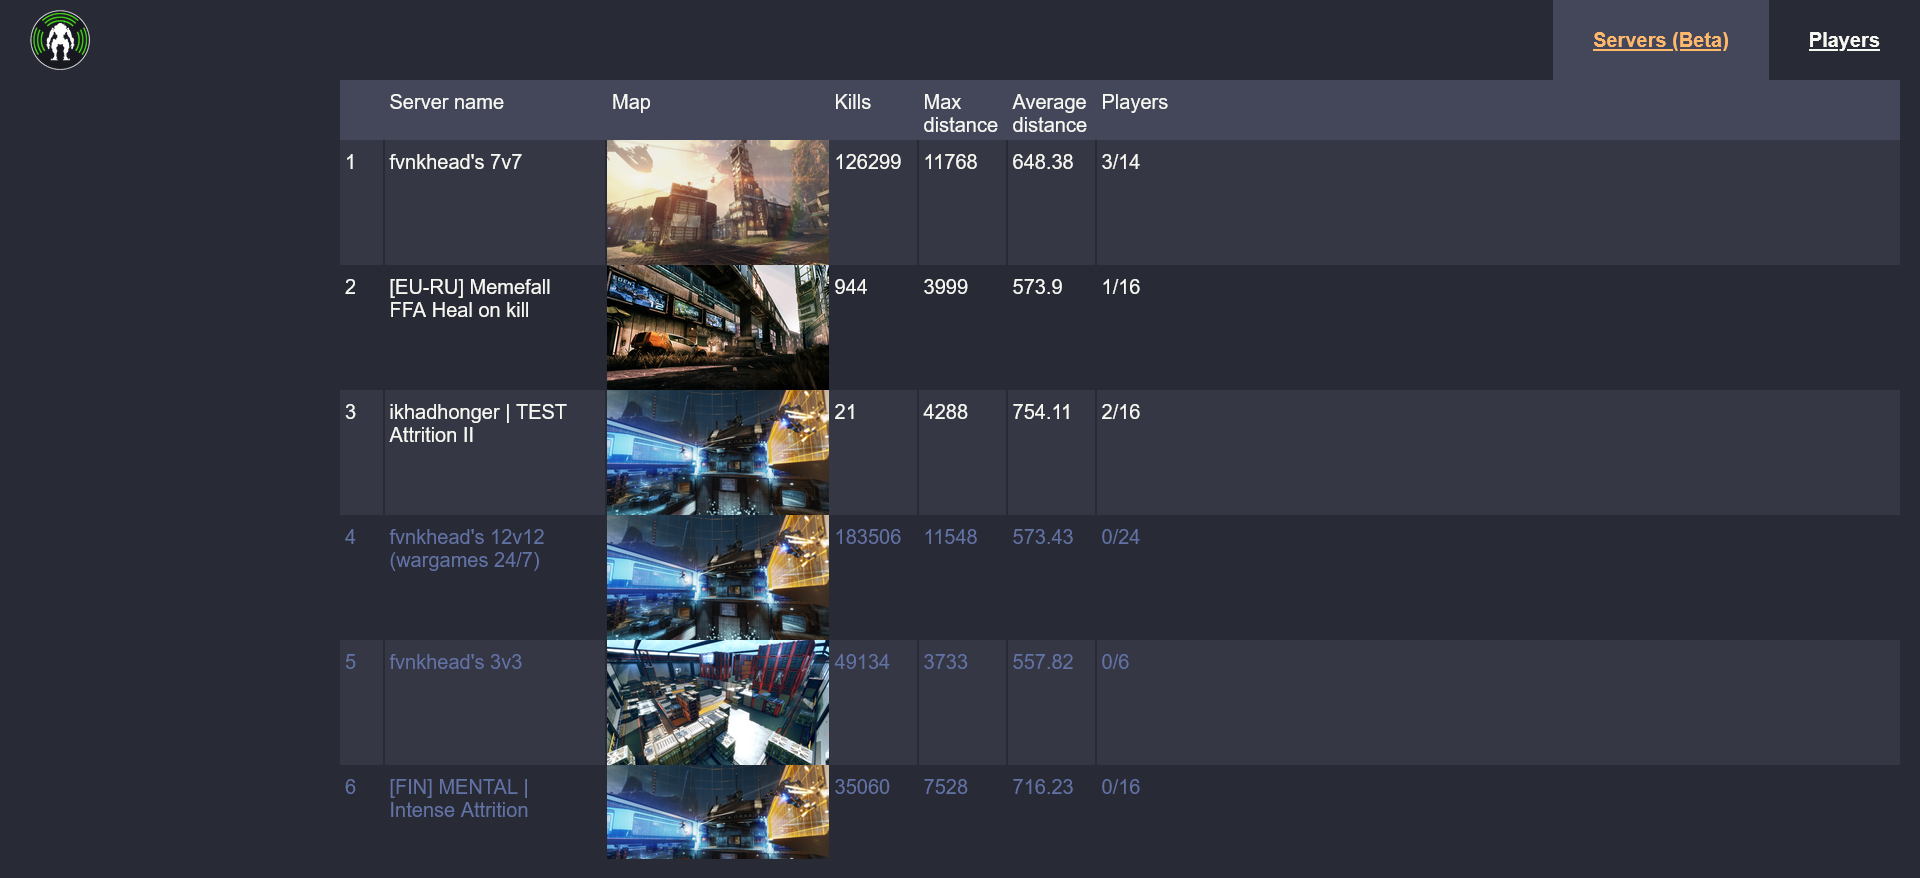
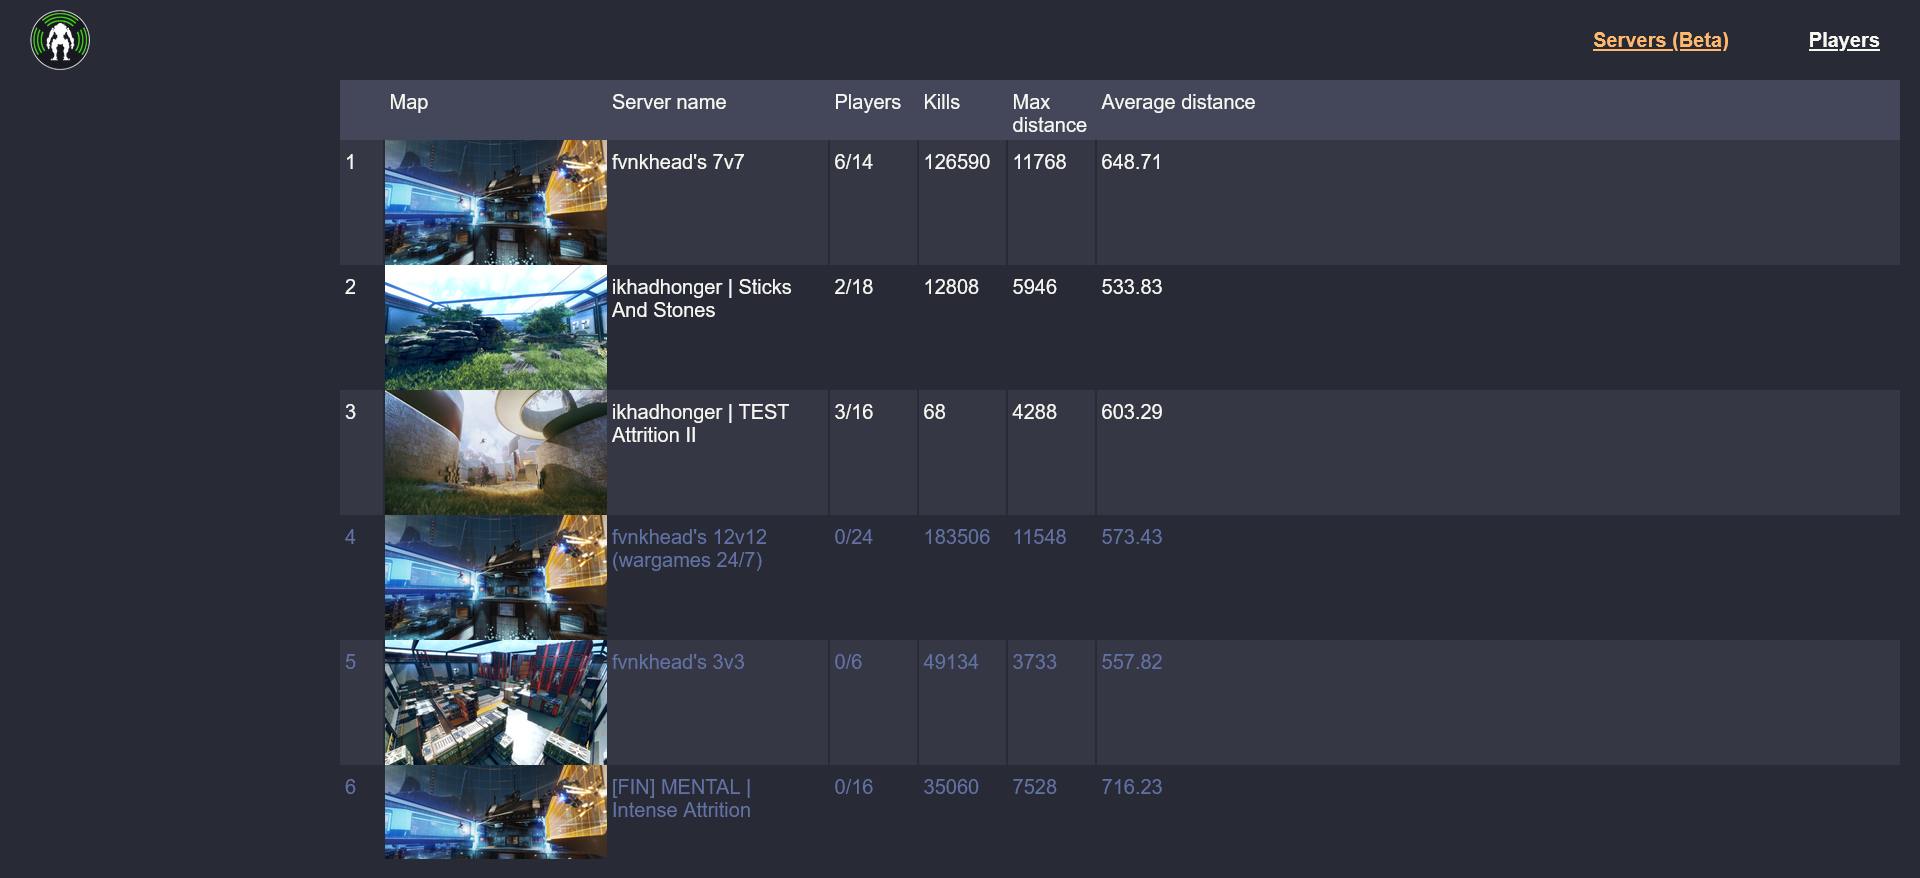
change order of elements in server list

diff --git a/src/views/ServerView.vue b/src/views/ServerView.vue
@@ -6,28 +6,27 @@
     <div class="serverList">
       <div class="serverHeaders">
         <span></span>
-        <span>Server name</span>
         <span>Map</span>
+        <span>Server name</span>
+        <span>Players</span>
         <span>Kills</span>
         <span>Max distance</span>
         <span>Average distance</span>
-        <span>Players</span>
       </div>
       <VirtualList :list="serverList" :row-height="100" v-slot="slotProps">
         <div
           :class="'serverRow ' + (!nsServersByName[slotProps.data.name] ? 'offline ' : '') + (!nsServersByName[slotProps.data.name]?.playerCount ? 'inactive ' : '') + ((slotProps.index + 1) % 2 ? 'odd ' : 'uneven ')">
           <div><span>{{ slotProps.index + 1 }}</span></div>
-          <div><span>{{ slotProps.data.name + (!nsServersByName[slotProps.data.name] ? ' (offline)' : '') }}</span></div>
           <img v-if="nsServersByName[slotProps.data.name]"
             :src="`${publicPath}maps/${nsServersByName[slotProps.data.name].map}_lobby.png`" />
             <div v-if="!nsServersByName[slotProps.data.name]"></div>
-
+          <div><span>{{ slotProps.data.name + (!nsServersByName[slotProps.data.name] ? ' (offline)' : '') }}</span></div>
+          <div><span>{{ nsServersByName[slotProps.data.name] ? nsServersByName[slotProps.data.name]?.playerCount
+            + '/' + nsServersByName[slotProps.data.name]?.maxPlayers : '' }}</span></div>
           <div><span>{{ slotProps.data._value.deaths }}</span></div>
           <div><span>{{ slotProps.data._value.max_distance }}</span></div>
           <div><span>{{ Math.round(((slotProps.data._value.total_distance / slotProps.data._value.kills) || 0) * 100) /
             100 }}</span></div>
-          <div><span>{{ nsServersByName[slotProps.data.name] ? nsServersByName[slotProps.data.name]?.playerCount
-            + '/' + nsServersByName[slotProps.data.name]?.maxPlayers : '' }}</span></div>
 
         </div>
       </VirtualList>
@@ -102,7 +101,7 @@ export default defineComponent({
 .serverHeaders {
   box-sizing: border-box;
   display: grid;
-  grid-template-columns: 4ch 20ch 178px 8ch 8ch 8ch 1fr;
+  grid-template-columns: 4ch 178px 20ch 8ch 8ch 8ch 1fr;
   background: var(--bg-color);
   text-align: left;
   cursor: pointer;

diff --git a/public/servers.html b/public/servers.html
@@ -7,7 +7,7 @@
     <meta content="Servers : Tone API" property="og:title" />
     <meta content="Northstar servers kills statistics" property="og:description" />
     <meta content="https://toneapi.github.io/ToneAPI_webclient/servers" property="og:url" />
-    <meta content="https://toneapi.github.io/ToneAPI_webclient/server_og_image.png" property="og:image" />
+    <meta content="https://toneapi.github.io/ToneAPI_webclient/server_og_image.png?" property="og:image" />
 	<meta name="twitter:card" content="summary_large_image">
     <link rel="icon" href="<%= BASE_URL %>favicon.ico">
     <title><%= htmlWebpackPlugin.options.title %></title>
